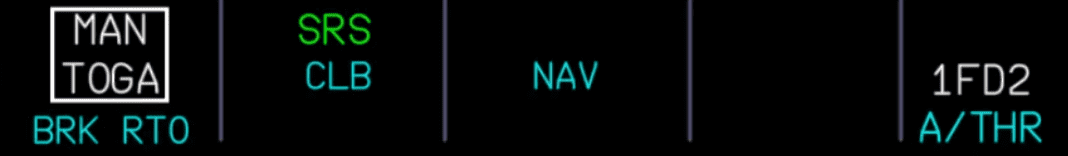
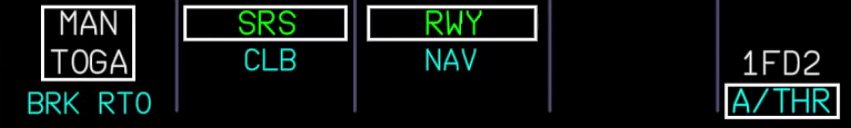
fixes to chapter 05

diff --git a/docs/pilots-corner/a380x/a380x-beginner-guide/05_takeoff-climb-cruise.md b/docs/pilots-corner/a380x/a380x-beginner-guide/05_takeoff-climb-cruise.md
@@ -86,8 +86,19 @@ This section is focused on differences to other non-Airbus airliners a user migh
     setting certain values and then push or pull the knobs. Pushing usually means automatic control (Managed Mode) and
     pulling will use the manually selected value (Selected Mode).
 
-    ![FCU](../../a32nx/assets/beginner-guide/takeoff-climb-cruise/FCU.png "FCU"){loading=lazy} 
-    <p style="color:yellow; font-size:18px;">TODO: update screenshot with new FCU</p>
+    ![FCU](../assets/beginner-guide/05_takeoff-climb-cruise/aps-fcu.png "FCU"){loading=lazy}
+
+    The FCU (Flight Control Unit) shows three important values:
+
+    - SPD "---":<br/>
+      Means the __Autopilot__ is in Managed Speed mode (e.g., 250kt <10000ft, 290kt above).<br/>
+      If we pull the SPD knob we can select a speed which the __Autopilot__ will then apply.
+    - HDG "---": <br/>
+      Means the lateral navigation is in Managed HDG Mode and the __Autopilot__ follows the planned route. 
+      Dialing the HDG knob will let us select a heading and by pulling the knob we tell the __Autopilot__ to fly this 
+      heading (Selected Heading Mode).<br/>
+    - ALT "5000": <br/>
+      Means the selected altitude is 5000ft<br/>
 
 ??? tip "Using the FCU Knobs in Microsoft Flight Simulator"
     In Microsoft Flight Simulator, pushing is clicking the knob "UP" and pulling is clicking the knob "DOWN"<br/>
@@ -210,10 +221,6 @@ Once we are cleared for takeoff, we will start the takeoff roll:
 `PARKING BRAKE ........................................................ OFF`<br/>
 `BRAKES ............................................................. PRESS`<br/>
 `TAKEOFF ..........................................................ANNOUNCE`<br/>
-`SIDESTICK ........................................................ FORWARD`<br/>
-??? note "Sidestick"
-    Push sidestick forward half the way to put pressure on the front gear<br/>
-    ![Flight Stick forward pressure](../../a32nx/assets/beginner-guide/takeoff-climb-cruise/Thrust-brake-forward-pressure.png "Flight Stick forward pressure"){loading=lazy}
 `THRUST LEVERS ........................................................ 25%`<br/>
 `BRAKES ........................................................... RELEASE`<br/>
 `THRUST LEVERS ............................................ FLX/MCT OR TOGA`<br/>
@@ -222,10 +229,8 @@ Once we are cleared for takeoff, we will start the takeoff roll:
 `PRIMARY FLIGHT DISPLAY and ENGINE indications ....................... SCAN`<br/>
 ??? note "PFD"
     - The PFD Flight Mode Annunciator (FMA) now shows several things which we should check when the aircraft starts rolling:
-        <!-- TODO
-        <p style="color:yellow; font-size:18px;">TODO: fix screenshot for A380X to show RWY NAV blue</p>
+
         ![FMA at T.O. Thrust](../assets/beginner-guide/05_takeoff-climb-cruise/fma-toga-thrust.png "FMA at T.O. Thrust"){loading=lazy}
-        -->
 
         From the left:
     
@@ -236,17 +241,15 @@ Once we are cleared for takeoff, we will start the takeoff roll:
         - Lateral guidance:
             - Active (green): RWY (automatic runway axis follow up through ILS use)
             - Armed (blue): NAV (navigation guidance according to HDG knob)
-        - __Autopilot__, Flight Director, Autothrust:
+        - Autopilot:
+            - Flight Director, Autothrust:
 `TAKEOFF THRUST ..................................................... CHECK`<br/>
 
-<!-- TODO
-<p style="color:yellow; font-size:18px;">TODO: fix screenshot for A380X to show RWY NAV blue</p>
 ??? tip "Vertical and Lateral Guidance"
     Vertical and lateral guidance are **only shown** via Flight Director, as we have not turned on the __Autopilot__ yet 
     and need to be followed manually by the pilot.
-        ![Flight Director guidance](../../a32nx/assets/beginner-guide/takeoff-climb-cruise/Flight-director-guidance.png "Flight Director guidance"){loading=lazy}#
-        <p style="color:yellow; font-size:18px;">TODO: update screenshot for A380X</p>
--->
+    
+    ![fd-guidance-takeoff-roll.png](../assets/beginner-guide/05_takeoff-climb-cruise/fd-guidance-takeoff-roll.png){loading=lazy}
 
 Keep the aircraft on the center line while accelerating down the runway.
 
@@ -271,12 +274,8 @@ Keep the aircraft on the center line while accelerating down the runway.
     As we lift off from the ground, monitor the PFD's V/S band. As long as that shows a positive rate of climb we are 
     ok to take the gear up. In real life the pilot monitoring would be the one to call out "positive rate of climb."
 
-    <p style="color:yellow; font-size:18px;">TODO: add screenshot for A380X speed band with V speeds</p>
+    ![V-Speeds](../assets/beginner-guide/05_takeoff-climb-cruise/speed-band-vspeeds.png){loading=lazy align=left}
 
-`SIDESTICK ........................................................ NEUTRAL`<br/>
-??? note "Sidestick"
-    At about 80 knots, slowly release the forward pressure on the sidestick until about 100 knots, when the sidestick should
-    be in the neutral position.
 `V1 ............................................................... MONITOR`<br/>
 ??? note "At V1"    
     The throttle hand remains on the thrust levers until reaching V~1~ to be able to quickly abort the start. Remove the
@@ -284,29 +283,27 @@ Keep the aircraft on the center line while accelerating down the runway.
 `ROTATION ......................................................... PERFORM`<br/>
 ??? note "Rotation"
     At V~R~ apply smooth positive backward stick movement on the sidestick and aim for a rotation rate (pitch rate) of 
-    3deg/sec for about 5 seconds (15° - 18° pitch attitude). Once airborne, follow the flight director's 
+    3deg/sec for about 5 seconds (15°-18° pitch attitude). Once airborne, follow the flight director's 
     guidance for pitch attitude.<br/>
     
-    Count one-one thousand, two-one-thousand, etc. and hit 15 degrees at five-one-thousand - practice this.
-        
-    ![V~1~](../../a32nx/assets/beginner-guide/takeoff-climb-cruise/V1.png "Speedtape with V~1~ marker"){loading=lazy}
+    Count one-one thousand, two-one-thousand, etc. and hit 15 degrees at five-one-thousand - practice this.
+
+    PFD shortly after V1:<br/>
+    ![img.png](../assets/beginner-guide/05_takeoff-climb-cruise/pfd-v1-rotation.png){loading=lazy}
+
 `POSITIVE CLIMB ................................................... CONFIRM`<br/>
 ??? note "Positive Climb"
     The pilot flying (PF) will call out "Positive Climb" when the vertical speed indicator shows a positive rate of climb.
     The pilot monitoring (PM) will confirm this callout.
-    
-    ![Positve Climb](../../a32nx/assets/beginner-guide/takeoff-climb-cruise/Positve-climb.png "Positve Climb"){loading=lazy}.
+
+    ![Positve Climb](../assets/beginner-guide/05_takeoff-climb-cruise/pfd-positive-vs.png "Positve Climb"){loading=lazy}.
+
 `LANDING GEAR .......................................................... UP`<br/>
 ??? note "Gear up"
     ![gearup](../../a32nx/assets/beginner-guide/takeoff-climb-cruise/Gearup.png)
 
-    - We confirm that the landing gear is up by looking at the landing gear annunciators, and the lower ECAM Wheels page.
+    - We confirm that the landing gear is up by looking at the landing gear annunciators, and the lower SD Wheels page.
 
-    ![ldg_gear_annun](../../a32nx/assets/beginner-guide/takeoff-climb-cruise/Ldg-gear-annun.png "Landing gear annunciators show no lights"){loading=lazy}<br/> 
-    <p style="color:yellow; font-size:18px;">TODO: update screenshot for A380X</p>
-
-    ![Lower ECAM Wheel page after gear up](../../a32nx/assets/beginner-guide/takeoff-climb-cruise/ECAM-wheel.png "Lower ECAM Wheel page after gear up"){ loading=lazy} 
-    <p style="color:yellow; font-size:18px;">TODO: update screenshot with new lower ECAM</p>
 `AUTOPILOT .................................................... AS REQUIRED`<br/>
 
 This concludes *Takeoff*.
@@ -322,43 +319,31 @@ This concludes *Takeoff*.
 #### After Takeoff
 
 After takeoff, the aircraft will use `FLX/MCT` or `TO GA` thrust until thrust reduction altitude is reached (typically ~
-1500 ft above runway, this is part of the MCDU setup)
+1500 ft above runway, this is part of the FMS setup)
 
 After reaching **thrust reduction altitude**, the `PFD FMA` now shows a flashing *LVR CLB* message to instruct the pilot to 
 move thrust levers to the `CL` detent.
 
 `THRUST LEVERS ......................................................... CL`<br/>
-??? note "Thrust Levers in CL detent" 
-    ![Thrust levers in CL detent](../../a32nx/assets/beginner-guide/takeoff-climb-cruise/Lvr-clb.png "Thrust levers in CL detent"){loading=lazy} 
-    <p style="color:yellow; font-size:18px;">TODO: update screenshot with new throttle quadrant</p>
 `A/THR........................................................ CHECK ACTIVE`<br/>
 ??? note "Autothrust"
     This activates the __Autothrust__ system (FMA shows `A/THR` in white now). In the A380 (and most Airbus models) we will
     not touch the thrust levers again before final approach and landing (under normal flight conditions).
 
     The aircraft will now climb to the altitude selected in the FCU (in our case, 5.000ft).
+
+    ![img.png](../assets/beginner-guide/05_takeoff-climb-cruise/fma-athr-active.png){loading=lazy}
+
 `PACKS 1 and 2 ................................................... AS REQ'D`<br/>
 `AUTOPILOT .................................................... AS REQUIRED`<br/>
 ??? note "Autopilot"
     **Activate the __Autopilot__ at this point by pressing the AP1 button on the FCU.**
-    
-    ![Autopilot and Autothrust buttons](../../a32nx/assets/beginner-guide/takeoff-climb-cruise/AP1.png "Autopilot and Autothrust buttons"){loading=lazy} 
-    <p style="color:yellow; font-size:18px;">TODO: update screenshot with new FCU</p>
-    
+
+    ![AP1 Pushbutton](../assets/beginner-guide/05_takeoff-climb-cruise/aps-fcu-ap1-pb.png)
+
     The FMA now shows AP1 in white in the upper-right corner.
 
-??? tip "FCU Autopilot Displays and Controls"
-    The FCU (Flight Control Unit) shows three important values:
-
-    - SPD "---" : means the __Autopilot__ is in Managed Speed mode (e.g., 250kt <10000ft, 290kt above).<br/> 
-      If we pull the SPD knob we can select a speed which the __Autopilot__ will then apply.
-    - HDG "---" : means the lateral navigation is in Managed HDG Mode and the __Autopilot__ follows the planned route. 
-      Dialing the HDG knob will let us select a heading and by pulling the knob we tell the __Autopilot__ to fly this 
-      heading (Selected Heading Mode).<br/>
-    - ALT "5000" : means the selected altitude is 5000ft<br/>
-
-    <p style="color:yellow; font-size:18px;">TODO: add screenshot</p>
-
+    ![FMA AP1](../assets/beginner-guide/05_takeoff-climb-cruise/fma-ap1-on.png){loading=lazy}
 
 `At F speed: FLAPS 1 .................................................. SET`<br/>
 ??? note "Flaps during takeoff and climb"
@@ -373,8 +358,8 @@ move thrust levers to the `CL` detent.
 
     We always retract flaps by only one step at a time. So, when we took off with `FLAPS 2` (`CONF-2`) we retract `FLAPS` at "F" to `FLAPS 1`. Then at "S" we retract them to `FLAPS 0`.
 
-    ![Aircraft shortly before reaching S-speed](../../a32nx/assets/beginner-guide/takeoff-climb-cruise/S-speed.png "Aircraft shortly before reaching VS speed"){loading=lazy}
-    <p style="color:yellow; font-size:18px;">TODO: update screenshot for A380X</p>
+    ![Aircraft shortly before reaching S-speed](../assets/beginner-guide/05_takeoff-climb-cruise/pfd-s-speed.png){loading=lazy}
+
 `At S speed: FLAPS ZERO ............................................... SET`<br/>
 
 `EXTERIOR LIGHTS ...................................................... OFF`<br/>
@@ -388,12 +373,18 @@ move thrust levers to the `CL` detent.
 `TCAS ............................................................... TA/RA`<br/>
 `ANTI-ICE ..................................................... AS REQUIRED`<br/>
 
-`AFTER TAKEOFF CHECKLIST down to the line ........................ COMPLETE`<br/>
-??? note "After Takeoff Checklist - Down to the line"
-    `LDG GEAR ................................................................... UP`<br/>
-    `FLAPS ....................................................................... 0`<br/>
-    `PACK 1+2 ............................................................. AS REQ'D`<br/>
-    `APU MASTER ................................................................ OFF`<br/>
+??? tip "How and Where"
+    [Flight Deck Overview](../../a380x-briefing/flight-deck){ .md-button }
+
+    Use the Flight Deck Overview to locate the items mentioned above. The Flight Deck Overview is a
+    clickable cockpit that will show you where each item is located.
+
+    * [Exterior Lights](../../a380x-briefing/flight-deck/ovhd/ext-lt)
+    * [Ground Spoilers](../../a380x-briefing/flight-deck/pedestal/speed-brake)
+    * [APU Bleed](../../a380x-briefing/flight-deck/ovhd/apu)
+    * [APU Master Switch](../../a380x-briefing/flight-deck/ovhd/apu)
+    * [TCAS](../../a380x-briefing/flight-deck/pedestal/surveillance)
+    * [Anti-Ice](../../a380x-briefing/flight-deck/ovhd/anti-ice)
 
 At this point, the aircraft is climbing to the initially cleared altitude. The __Autopilot__ will manage the climb to the
 selected altitude.
@@ -409,8 +400,8 @@ selected altitude.
     Dial the newly cleared altitude into the FCU. (e.g., 15 000 ft) and push for managed climb (CLB) or pull for open
     climb (OP CLB)
 
-    ![Entering the new altitude and pushing the knob for Managed Altitude Mode](../../a32nx/assets/beginner-guide/takeoff-climb-cruise/Altitude-setting-15000.png "Entering the new altitude and pushing the knob for Managed Altitude Mode"){loading=lazy} 
-    <p style="color:yellow; font-size:18px;">TODO: update screenshot with new FCU</p>
+    ![Entering the new altitude and pushing the knob for Managed Altitude Mode](../assets/beginner-guide/05_takeoff-climb-cruise/fma-altitude-15000.png 
+    "Entering the new altitude and pushing the knob for Managed Altitude Mode"){loading=lazy} 
 
 ??? warning "Use OP CLB or CLB mode and not V/S"
     It is not recommended to use V/S for climbing or descending in the A380 (at least not for beginners) as the V/S 
@@ -421,12 +412,6 @@ selected altitude.
     limit, V/S automatically decreases to maintain the minimum or maximum speed limit.<p/>
 
     See also [Protections](../../a32nx/a32nx-advanced-guides/protections/overview.md).
-
-`AFTER TAKEOFF CHECKLIST below the line .......................... COMPLETE`<br/>
-??? note "After Takeoff Checklist - Below the line"
-    `BARO REF STD .............................................................. STD`<br/>
-    `LANDING LIGHT (at 10,000ft) ............................................... OFF`<br/>
-
 
 This concludes the *Initial Climb*.
 
@@ -450,8 +435,7 @@ This concludes the *Initial Climb*.
     automatically.
 
     The PFD's `FMA` now shows:<br/>
-    ![FMA during climb](../../a32nx/assets/beginner-guide/takeoff-climb-cruise/FMA-THR-CLB.png "FMA during climb"){loading=lazy}
-    <p style="color:yellow; font-size:18px;">TODO: update screenshot for A380X</p>
+    ![FMA during climb](../assets/beginner-guide/05_takeoff-climb-cruise/pfd-set-cruise-lvl.png "FMA during climb"){loading=lazy}
 
 `ANTI-ICE ..................................................... AS REQUIRED`<br/>
 
@@ -477,10 +461,9 @@ the seatbelt signs. The aircraft will now accelerate to CLB speed (defined in `M
     set transition altitude, you will set your barometer to `STD`, as notated in the Check Baro Setting item in the previous
     section. Standard altitude is `29.92 in` or `1013 QNH`.
 
-
-??? tip "MCDU and PFD at cruise level"
-    ![PFD and MCDU at CRUISE](../../a32nx/assets/beginner-guide/takeoff-climb-cruise/pfd-mcdu-cruise-lvl.png "PFD and MCDU at CRUISE"){loading=lazy} 
-    <p style="color:yellow; font-size:18px;"> TODO: update screenshot for A380X</p>
+??? tip "PFD at cruise level"
+    ![PFD and MCDU at CRUISE](../assets/beginner-guide/05_takeoff-climb-cruise/pfd-cruise.png 
+    "PFD and MCDU at CRUISE"){loading=lazy} 
 
 This concludes the *Climb*.
 
@@ -527,13 +510,17 @@ like weather, traffic, etc.
 
 ??? info "Direct course to a waypoint (DIR TO)"
     **Direct course to a waypoint (DIR TO)** <br/>
-    ATC regularly instructs us to go "direct to (waypoint) XYZ". Use the ECAM DIR page to select the waypoint from the
-    flight plan's list of waypoints. In rare cases it is a waypoint not in the current flight plan, then you can enter a
-    new waypoint in the MCDU and put it into the upper left entry field. Select DIRECT* on the right-bottom to execute 
-    the change.
+    ATC regularly instructs us to go "direct to (waypoint) XYZ". Use the MFD F-PLN page to click the waypoint from the
+    flight plan's list of waypoints and select "FROM P.POS DIR TO". This bring you to the DIR TO page.
 
-    ![ECAM direct to](../../a32nx/assets/beginner-guide/takeoff-climb-cruise/Dir-to.png "ECAM direct to"){loading=lazy}
-    <p style="color:yellow; font-size:18px;">TODO: update screenshot for A380X</p>
+    ![img.png](../assets/beginner-guide/05_takeoff-climb-cruise/mfd-fpln-dirto.png)
+
+    In rare cases it is a waypoint not in the current flight plan, then you enter the DIR TO page by using the 
+    DIR TO button on the bottom right of the MFD F-PLN page. There you can type in the waypoint name.
+
+    ![img_1.png](../assets/beginner-guide/05_takeoff-climb-cruise/mfd-dirto.png)
+
+    Confirm the change by pressing the "INSERT DIR TO*" button on the bottom right of the DIR TO page.
 
 ??? info "ATC requests specific speed"
     **ATC requests specific speed **<br/>
@@ -546,4 +533,4 @@ descent and approach.
 
 This concludes the *Cruise*.
 
-Continue with [Descent Planning and Descent](06_descent)
+Continue with [Descent Planning and Descent](../06_descent)
